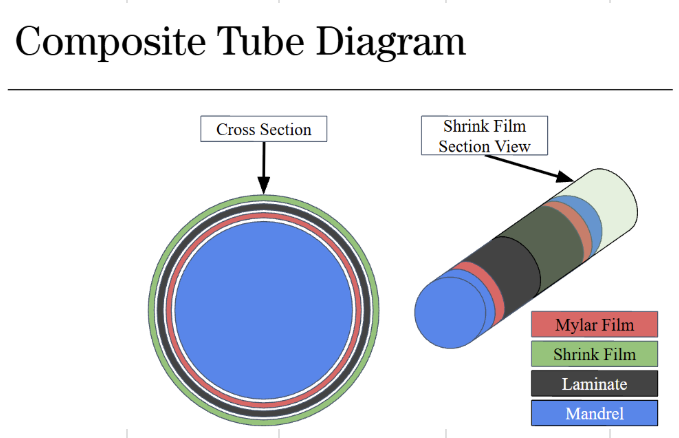
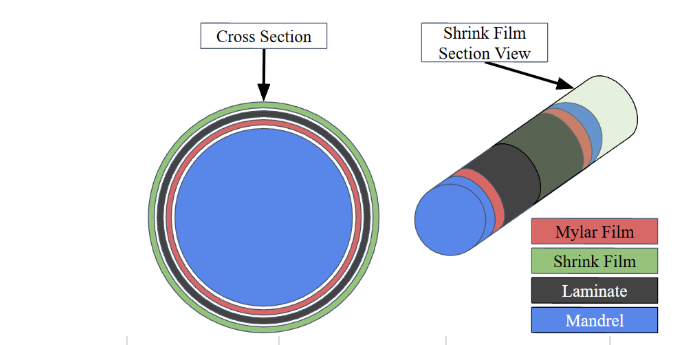
Added lots of pictures to composites page

Changed region(s): [[0.0, 0.058, 0.9897, 0.9855], [0.4639, 0.2609, 0.4948, 0.2899]]

diff --git a/docs/vehicle/composites.md b/docs/vehicle/composites.md
@@ -9,13 +9,67 @@ Carbon fiber is generally about 30 % stronger for the same length, so it is desi
 
 ## Manufacturing
 
-### Flat plate
+### Flat plates
 A flat plate is the simplest layup to make. A flat plate can be made using just the fiber material, or it can be a composite sandwich using some form of core material, such as balsa wood or honeycomb nomex. The flat plate process can be used for both bulkhead and fin layups.
+
+![Core Material](CompositesPictures/CoreMaterial.jpg)
+*An example of a fin core using honeycomb nomex*
 
 In HPRC, we like to pull vacuum on our composites for extra compression, but if you do not have the equipment, heavy weights or other items can be used to apply compression instead. 
 
-When doing a layup, you should use as flat of a surface as possible. HPRC uses acryllic boards, as those can be moved around as needed. First, we start with a layer of mylar, then a layer of peel ply. Next is the composite materials themselves. Afterwards goes another layer of peel ply, perforated film, breather, and finally the vacuum bagging. 
+When doing a layup, you should use as flat of a surface as possible. HPRC uses acryllic boards, as those can be moved around as needed. First, we start with a layer of mylar, then a layer of peel ply. Next is the composite materials themselves. Afterwards goes another layer of peel ply, perforated film, breather, and finally the vacuum bagging. To seal the vacuum bag, we utilize butyl tape
 
-![Composite Sandwich](CompositePictures/PlateOrder.jpg)
+![Composite Sandwich](CompositesPictures/PlateOrder.png)
 
-![Tube Order](CompositePictures/TubeOrder.png)
+As for sizing, everything measured relative to the core of the material. For example, the core is 6" by 4", then the peel ply would be cut to 8" by 6"
+
+| Layer | Size Added Relative to Core |
+| ----- | --------------------- |
+| Peel Ply | 2" |
+| Mylar | 3" |
+| Fiberglass/Carbon Fiber | 1" |
+| Perforated Film | 2" |
+| Breather | 2" |
+| Vacuum Bagging | 5" |
+
+![Vacuum Plate](CompositesPictures/VaccumPlate.jpg)
+
+
+
+### Tubes
+Laying up a tube can be accomplished in a few ways. It can be made using a filament winder, composite sleeves, and hand-rolled using the same composite cloth as a plate. 
+
+When making a tube, some sort of material is required for a mandrel. Some options include commercial coupler tubes, be it composites or phenolic, aluminum stock, typically machined to achieve a specific inner diameter, or, as we use, 3D-printed modular mandrels. The mandrel should be very smooth, so sanding up to a grit of #800 - #1200 can be beneficial. 
+
+As with a plate layup, we start with a layer of mylar, which is taped as tightly against itself as possible using mylar tape. Next, the composite layers are applied. If using cloth, you should cut one continuous piece of cloth that will be rolled over the mandrel. If using sleeve, cut the desired number of layers of sleeve, then apply and wet them out one by one. 
+
+For applying compression and finishing the surface, multiple methods can be used. Mylar or peel ply can be used for a smooth surface, however, almost no compression is applied. Heat shrink tape or heat shrink tube can be used with better results. However, it is important to know the glass transition temperature of the used epoxy as well as the mandrel, thus heating should not be applied in the same location for an extended period of time. Additionally, be careful of epoxy bubbles bursting through the heat shrink material, as it can shoot far and potentially hit you or someone else. 
+
+![Tube Order](CompositesPictures/TubeOrder.png)
+*The order of materials as used by HPRC.*
+
+![Middle of a tube layup](CompositesPictures/TubeActive.jpg)
+*In the middle of rolling a tube.*
+
+![Peel Ply Compression](CompositesPictures/PeelPlyTube.jpg)
+*An example of a tube using peel ply for surface finish.*
+
+![Heat Shrink Tube](CompositesPictures/HeatShrinkTube.jpg)
+*In the middle of applying heat shrink tubing.*
+
+
+![Heat Shrink Tape](CompositesPictures/HeatShrinkTape.jpg)
+*Application of heat shrink tape. Notice the hands pulling tension during the application of the tape.*
+
+
+
+### Nosecones
+Just like with tubes, nosecones can be made in multiple ways. By far the easiest way is by using composite sleeves. However, if you're up for a challenge, a nosecone can also be made using flat cloth cut into multiple gores, then laid up against either a male or female mold. 
+
+Typically, a nosecone is laid up on a 3D-printed male plug. From there, you can decide to also use a female other mold for compression. If you're using sleeves, you can also ziptie both ends and hang a weight to compress the material. 
+
+Since you can't easily cover the mold using mylar, other materials have to be used for mold release. For smaller nosecones (Up to around 4" diameter), condoms can be used with great success, assuming you can get it on the nosecone mold ([see BPS.Space's great video](https://www.youtube.com/watch?v=jRbXzujI6ho)). If that is not possible, using 3-5 layers of Partall #2 mold release followed by 2-3 coats of liquid PVA, such as Partall film #10. 
+
+![Example of compression mold](CompositesPictures/CompressionMold.jpg)
+*This is an example of a compression mold. Below is the same mold in vacuum.*
+![Compression mold in vaccum](CompositesPictures/CompressionMoldVacuum.jpg)
